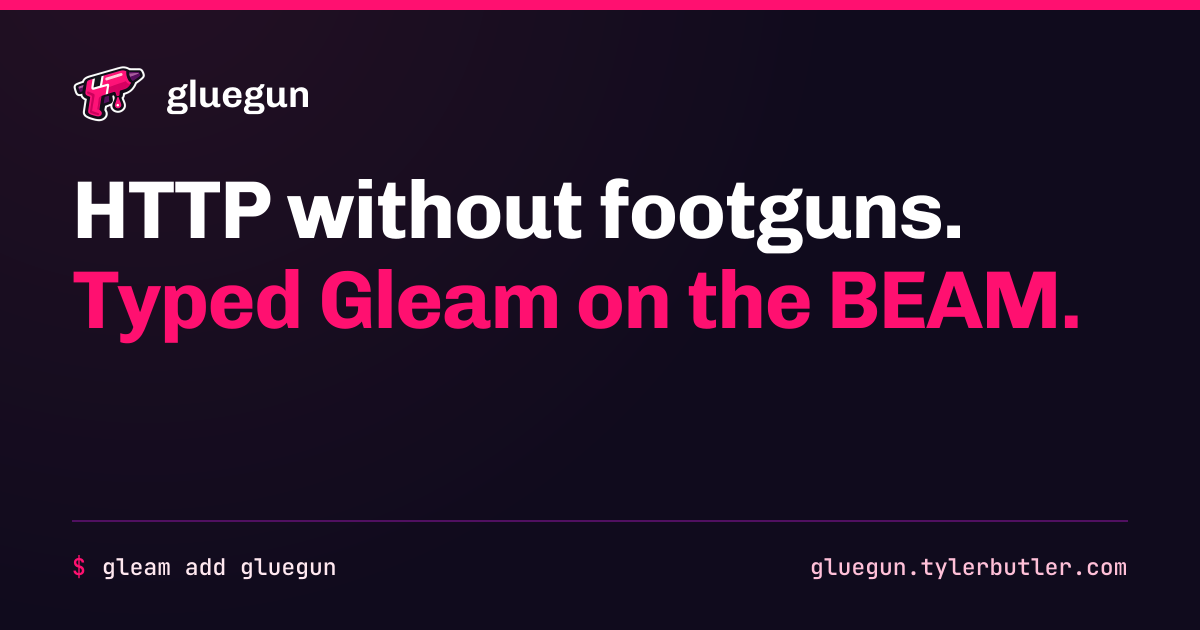
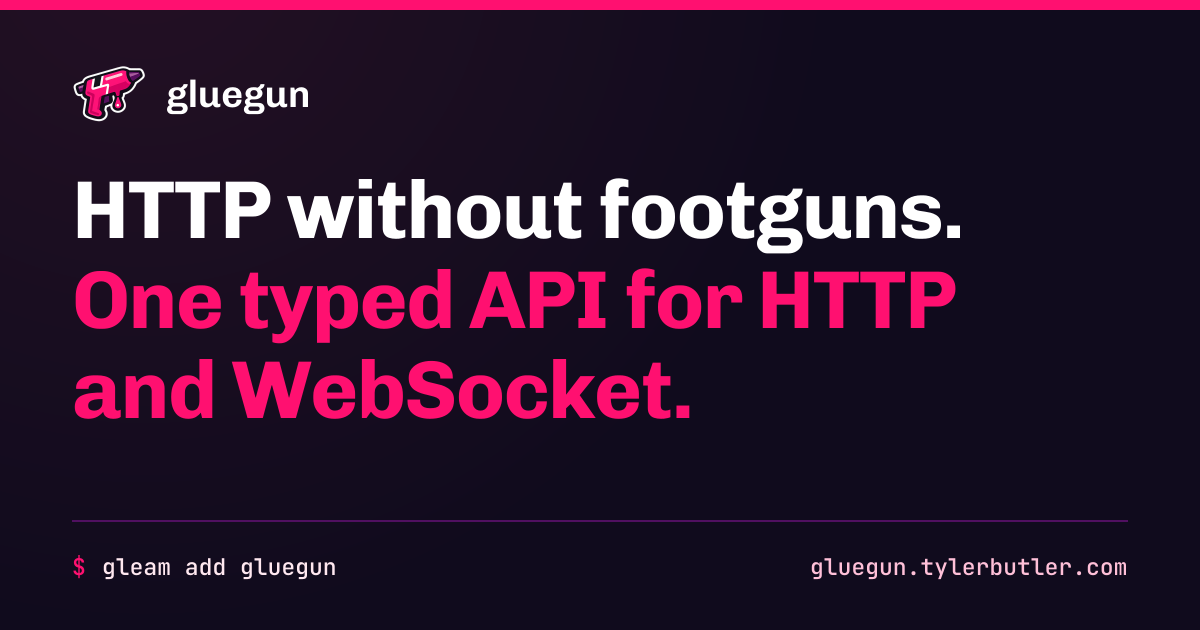
fix(website): sharpen og:image accent line
Replace "Typed Gleam on the BEAM." — every Gleam value is typed, so the
line said nothing — with "One typed API for HTTP and WebSocket.", which
names the actual value: a single typed surface across both protocols.
Regenerate public/og.png.

Changed region(s): [[0.0617, 0.4222, 0.8942, 0.5429], [0.0617, 0.573, 0.5858, 0.6635]]

diff --git a/website/scripts/generate-og.ts b/website/scripts/generate-og.ts
@@ -52,7 +52,7 @@ const line = token("sl-color-gray-5"); // deep violet
 
 const wordmark = "gluegun";
 const headlinePlain = "HTTP without footguns.";
-const headlineAccent = "Typed Gleam on the BEAM.";
+const headlineAccent = "One typed API for HTTP and WebSocket.";
 const command = "gleam add gluegun";
 const domain = "gluegun.tylerbutler.com";
 